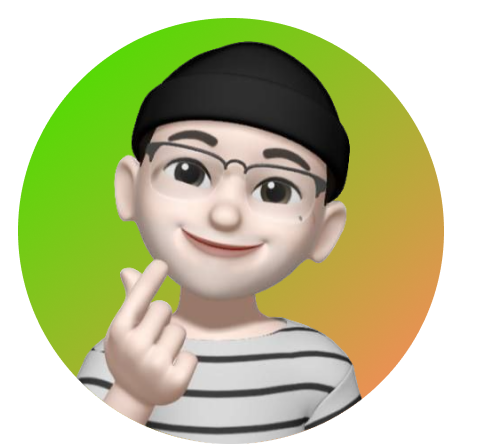
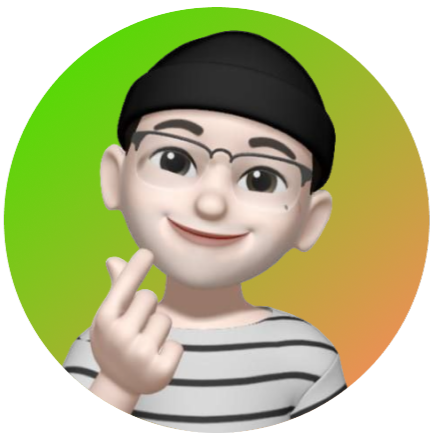
1.2

diff --git a/index.html b/index.html
@@ -7,12 +7,18 @@
     <link rel="stylesheet" href="index.css" />
     <link rel="preconnect" href="https://fonts.googleapis.com" />
     <link rel="preconnect" href="https://fonts.gstatic.com" crossorigin />
-    <link
-      href="https://fonts.googleapis.com/css2?family=Playwrite+NZ:wght@100..400&family=Poppins:wght@800&display=swap"
-      rel="stylesheet"
-    />
+    <link href="https://fonts.googleapis.com/css2?family=Poppins:ital,wght@0,100;0,200;0,300;0,400;0,500;0,600;0,700;0,800;0,900;1,100;1,200;1,300;1,400;1,500;1,600;1,700;1,800;1,900&display=swap" rel="stylesheet">
   </head>
   <body>
+    <div class="navbar">
+      <img src="images/logo.png" alt="logo" class="navbar-logo">
+      <div class="navbar-menu">
+        <span class="navbar-menu-text">Home</span>
+        <span class="navbar-menu-text">Projects</span>
+        <span class="navbar-menu-text">Experience</span>
+        <span class="navbar-menu-text">Contacts</span>
+      </div>
+    </div>
     <div class="first-page">
       <picture>
         <img src="images/avatar.png" alt="avatar" class="avatar" />
@@ -21,6 +27,12 @@
         Hi, my name is Max!👋🏻 <br/>
         I'm a Junior 
         <span class="gradient">Frontend Developer</span>
+      </span>
+      <span class="title-text" >
+        I am a seasoned full-stack software engineer with over 
+        8 years of professional experience, specializing in backend development. 
+        My expertise lies in crafting robust and scalable SaaS-based 
+        architectures on the Amazon AWS platform.
       </span>
     </div>
   </body>

diff --git a/index.css b/index.css
@@ -14,7 +14,7 @@
 
 .avatar {
   width: 310px;
-  margin-top: 37%;
+  margin-top: 18%;
 }
 
 .title {
@@ -22,10 +22,45 @@
   font-family: Poppins, sans-serif;
   color: white;
   font-weight: 800;
-  padding-top: 50px;
+  padding-top: 40px;
   text-align: center;
+}
+
+.title-text {
+  white-space: pre-wrap;
+  font-size: 24px;
+  font-family: Poppins, sans-serif;
+  color: white;
+  font-weight: 200;
+  text-align: center;
+  padding-top: 35px;
 }
 
 .gradient {
   color: #ff8660;
+}
+
+.navbar {
+  width: 100%;
+  height: 82px;
+  background-color: #222222;
+  display: flex;
+  align-items: center;
+}
+
+.navbar-logo {
+  margin-left: 22%;
+}
+
+.navbar-menu {
+  padding-left: 20%;
+  width: 100%;
+}
+
+.navbar-menu-text {
+  font-size: 18px;
+  font-family: Poppins, sans-serif;
+  color: white;
+  font-weight: 600;
+  padding-left: 7%;
 }
